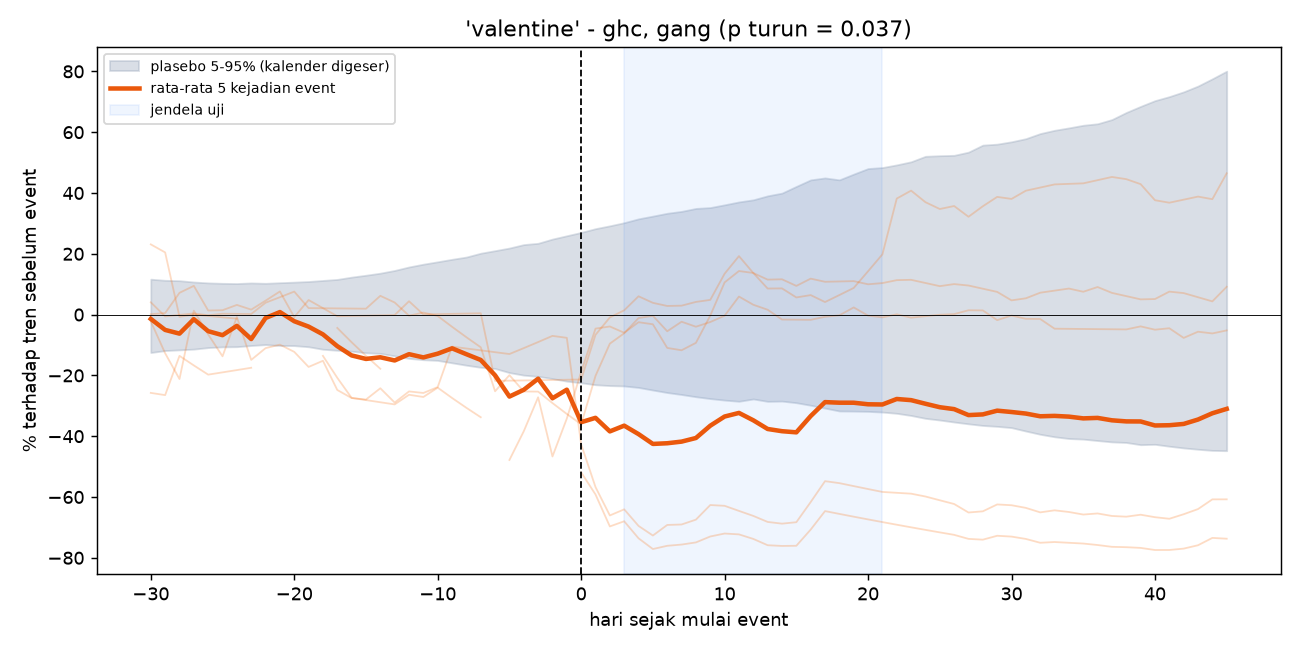
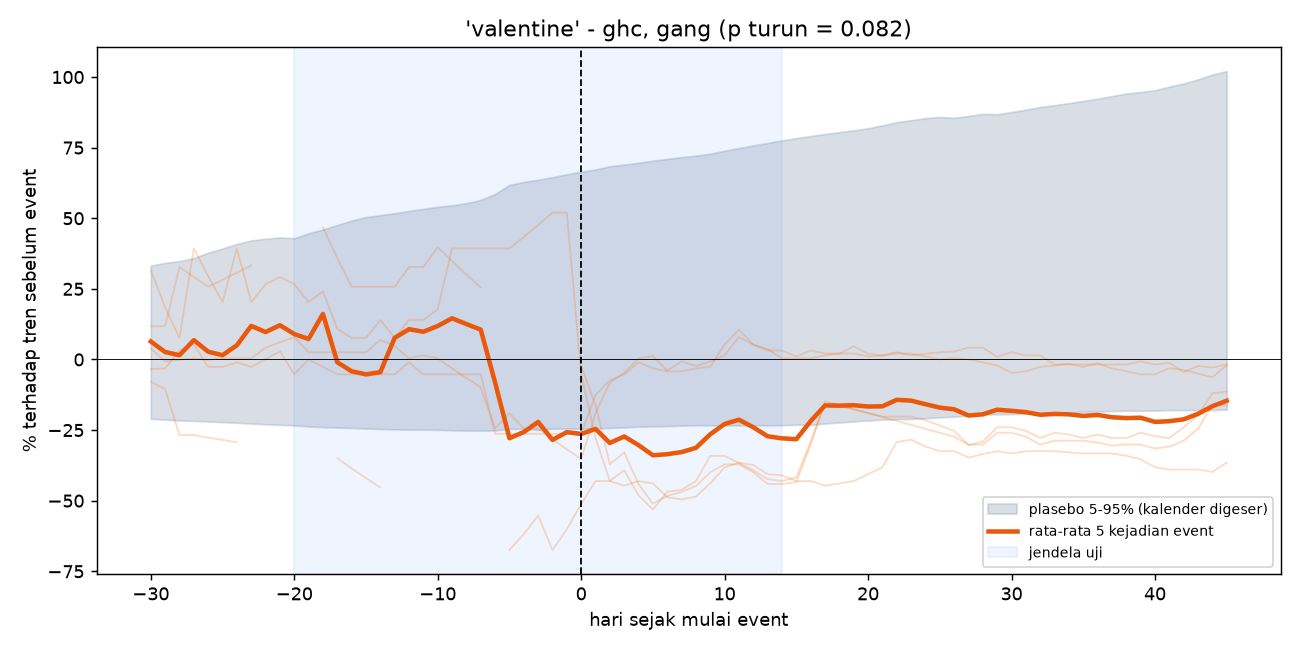
Add occurrences data for Valentine's events in 2024, 2025, and 2026
- Introduced a new CSV file containing item occurrences and event data.
- Included metrics such as percentage changes and lowest points for GHC and Gang items.

diff --git a/analysis/event_study.py b/analysis/event_study.py
@@ -264,7 +264,7 @@ def run(args) -> int:
     # --- ketahanan: item di tahun yang sama bergerak bersama, jadi sampel efektif adalah JUMLAH TAHUN, bukan jumlah baris
     by_year = {}
     for u in units:
-        by_year.setdefault(u["start"].year, []).append(u["S"])
+        by_year.setdefault(u["start"].year, []).append(u["raw"])
     print(f"\nPer tahun (rata-rata item): " + " | ".join(f"{y}: {pct(np.mean(v)):+.1f}%" for y, v in sorted(by_year.items())))
     print(f"Sampel efektif sebenarnya: {len(by_year)} tahun berbeda (bukan {n} kejadian), karena item di tahun yang sama saling terkait.")
     if len(by_year) >= 3:
@@ -273,7 +273,7 @@ def run(args) -> int:
             sub = [u for u in units if u["start"].year != y]
             p_sub = _shift_p([(u["item"], u["i"]) for u in sub], S_arr, args)
             ps = f"{p_sub:.3f}" if np.isfinite(p_sub) else "n/a"
-            print(f"   tanpa {y}: efek rata-rata {pct(np.mean([u['S'] for u in sub])):+.1f}% | p turun = {ps} ({len(sub)} kejadian)")
+            print(f"   tanpa {y}: efek rata-rata {pct(np.mean([u['raw'] for u in sub])):+.1f}% | p turun = {ps} ({len(sub)} kejadian)")
         print("   -> Kalau efek hilang atau p melonjak begitu satu tahun dibuang, kesimpulannya bertumpu pada tahun itu saja.")
     steep = [u for u in units if abs(u["slope"]) >= 0.5]
     if steep:
@@ -295,7 +295,20 @@ def run(args) -> int:
     ax.set_xlabel("hari sejak mulai event"); ax.set_ylabel("% terhadap tren sebelum event")
     ax.set_title(f"'{args.event}' - {', '.join(series)} (p turun = {p_drop:.3f})"); ax.legend(loc="best", fontsize=8)
     fig.tight_layout(); fig.savefig(out / "event_profile.png", dpi=130); plt.close(fig)
-    print(f"\nFile: {out/'event_profile.png'}, {out/'occurrences.csv'}")
+    # --- grafik per tahun: satu panel per tahun, satu garis per item (sampel efektif = jumlah tahun)
+    years = sorted(by_year)
+    fig, axes = plt.subplots(1, len(years), figsize=(5 * len(years), 4.2), sharey=True, squeeze=False)
+    for ax, y in zip(axes[0], years):
+        for u in units:
+            if u["start"].year == y:
+                ax.plot(t, pct(u["ar"]), lw=1.8, label=u["item"])
+        ax.axvline(0, color="k", lw=1, ls="--"); ax.axhline(0, color="k", lw=0.5)
+        ax.axvspan(args.stat[0], args.stat[1], color="#3b82f6", alpha=0.08)
+        ax.set_title(str(y)); ax.set_xlabel("hari sejak mulai event"); ax.legend(loc="best", fontsize=8)
+    axes[0][0].set_ylabel("% terhadap pembanding sebelum event")
+    fig.suptitle(f"'{args.event}' per tahun - {', '.join(series)}")
+    fig.tight_layout(); fig.savefig(out / "event_per_year.png", dpi=130); plt.close(fig)
+    print(f"\nFile: {out/'event_profile.png'}, {out/'event_per_year.png'}, {out/'occurrences.csv'}")
     return 0
 
 
